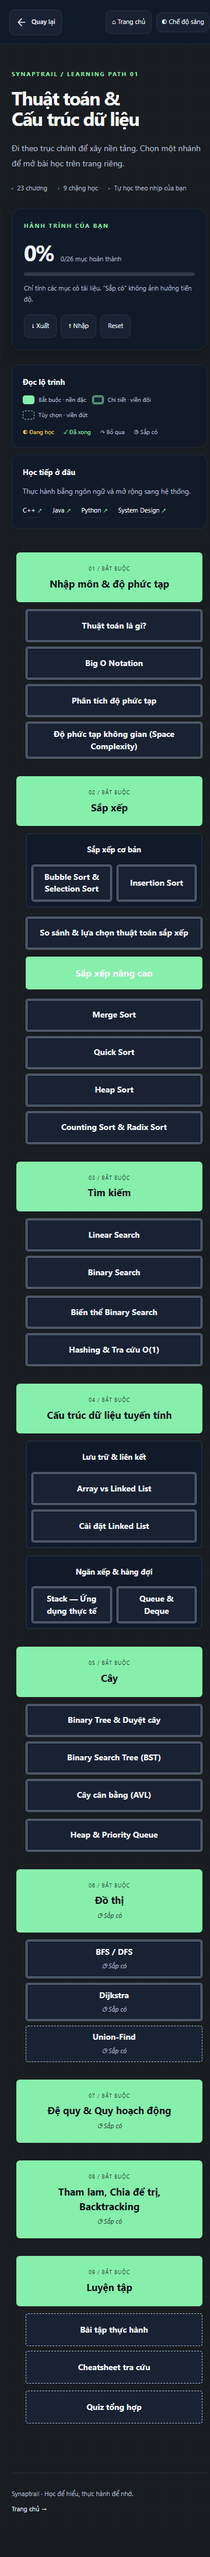
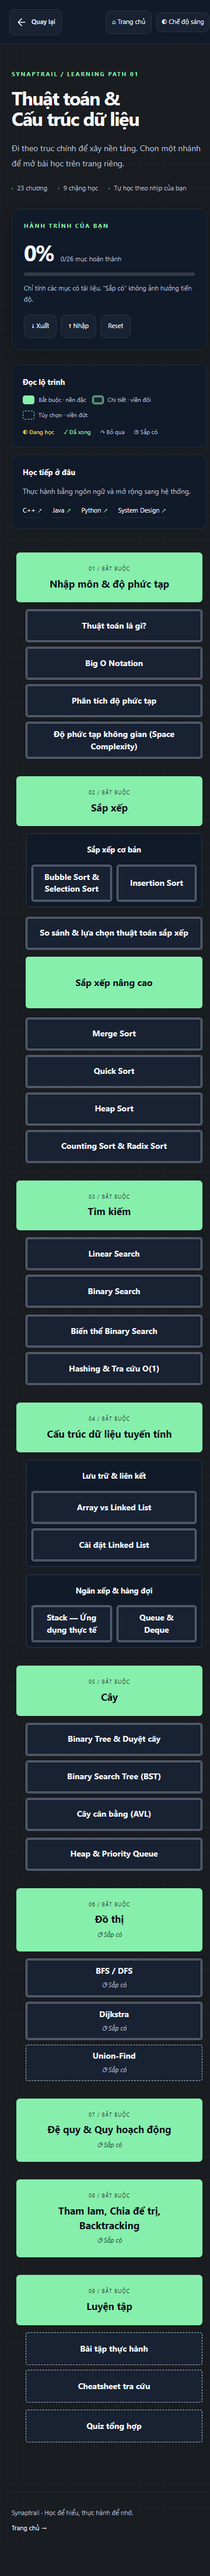
Oct 15, 2026, 1:29 PM

diff --git a/assets/roadmap.js b/assets/roadmap.js
@@ -50,7 +50,7 @@
     function drawSoon(){clearTimeout(timer);timer=setTimeout(draw,80);}
     function draw(){
       const svg=$('rm-connections');svg.replaceChildren();const list=small.matches||reduced.matches;map.classList.toggle('rm-list-mode',list);if(list)return;
-      const bounds=svg.getBoundingClientRect();svg.setAttribute('viewBox',`0 0 ${bounds.width} ${bounds.height}`);
+      const bounds=svg.getBoundingClientRect();svg.setAttribute('preserveAspectRatio','none');svg.setAttribute('viewBox',`0 0 ${bounds.width} ${bounds.height}`);
       const rect=el=>{const r=el.getBoundingClientRect();return{x:r.left-bounds.left,y:r.top-bounds.top,w:r.width,h:r.height};};
       const box=id=>rect(buttons.get(id));
       const path=(d,cls)=>{const p=document.createElementNS('http://www.w3.org/2000/svg','path');p.setAttribute('d',d);p.setAttribute('class',cls);svg.append(p);};
@@ -64,7 +64,7 @@
         });
       });
     }
-    if(globalThis.ResizeObserver)new ResizeObserver(drawSoon).observe(map);addEventListener('resize',drawSoon);small.addEventListener('change',drawSoon);reduced.addEventListener('change',drawSoon);
+    if(globalThis.ResizeObserver)new ResizeObserver(drawSoon).observe(map);addEventListener('resize',drawSoon);globalThis.visualViewport?.addEventListener('resize',drawSoon);small.addEventListener('change',drawSoon);reduced.addEventListener('change',drawSoon);
     function focusHash(){const b=buttons.get(location.hash.slice(1));if(b){b.focus({preventScroll:true});b.scrollIntoView({block:'center',behavior:'instant'});}}
     addEventListener('hashchange',focusHash);themeLabel();render();drawSoon();focusHash();
   },{once:true});

diff --git a/assets/roadmap.css b/assets/roadmap.css
@@ -145,7 +145,9 @@ html[data-theme=light] .rm-connections .rm-branch-line{opacity:.85}
 .rm-branch-tiles{grid-template-columns:repeat(2,minmax(0,1fr))}
 .algorithm-roadmap .rm-branch-heading{grid-column:1/-1;text-align:center;font-size:13px;font-weight:650;line-height:1.5;padding:var(--space-1);margin:0;color:var(--content-primary)!important;-webkit-text-fill-color:currentColor!important}
 .algorithm-roadmap .rm-branch-hub{background:var(--rm-accent);color:var(--surface-page)!important;-webkit-text-fill-color:currentColor!important;border:2px solid var(--rm-accent);border-radius:5px;font-size:16px;min-height:var(--rm-node-height);display:flex;align-items:center;justify-content:center;margin-bottom:var(--space-1)}
+html[data-theme] body.algorithm-roadmap .rm-branch-hub{color:var(--surface-page)!important;-webkit-text-fill-color:var(--surface-page)!important}
 .rm-stage-has-hub>.rm-node{align-self:start!important}
+.algorithm-roadmap .rm-stage-has-hub>.rm-node,.algorithm-roadmap .rm-stage-has-hub .rm-branch-hub{min-height:calc(var(--space-4)*2 + var(--space-3))}
 .algorithm-roadmap .rm-branch-group .rm-node{min-height:var(--rm-node-height);padding:var(--space-1) var(--space-2)!important;border-radius:4px}
 .rm-branch-tiles .rm-node-title{font-size:14px}
 .rm-connections .rm-hub-line{stroke:var(--rm-accent);stroke-width:3}

diff --git a/reports/algorithm-roadmap/README.md b/reports/algorithm-roadmap/README.md
@@ -1,6 +1,16 @@
 # Thuật toán: sơ đồ → trang bài học → trang quiz riêng
 
-Mở [lộ trình](../../roadmap/thuat-toan.html). Trục chính ở giữa, các nhánh nằm hai bên cùng cao độ với chặng tương ứng; đường trục liền và đường nhánh Bezier chấm được tính từ vị trí thật. Bố cục tham khảo ý tưởng trong ảnh; màu, nội dung và dữ liệu dùng Synaptrail.
+Mở [lộ trình](../../roadmap/thuat-toan.html). Trục chính ở giữa; các chặng dùng bố cục khác nhau theo ảnh: nhập môn có bốn nhánh bên phải, sắp xếp có cụm ô nhỏ bên trái và nhánh “Sắp xếp nâng cao” tách tiếp bên phải, cấu trúc tuyến tính có các nhóm ô riêng. Đường trục và nhánh lớn dùng nét liền, đường tới từng bài dùng Bezier chấm. Không còn chia mọi chặng thành hai cột đối xứng giống nhau. Bố cục lấy từ `layout` trong dữ liệu; không dùng tọa độ viết tay.
+
+Ảnh tập trung vào cấu trúc mới:
+
+| Chiều rộng | Tối | Sáng |
+| --- | --- | --- |
+| 375px | [Sơ đồ](dark-375-diagram.png) | [Sơ đồ](light-375-diagram.png) |
+| 768px | [Sơ đồ](dark-768-diagram.png) | [Sơ đồ](light-768-diagram.png) |
+| 1440px | [Sơ đồ](dark-1440-diagram.png) | [Sơ đồ](light-1440-diagram.png) |
+
+Lần chỉnh cấu trúc thay đổi bốn file nguồn: `assets/roadmaps/thuat-toan.js`, `assets/roadmap.js`, `assets/roadmap.css`, `scripts/check-algorithm-roadmap.cjs`; cùng báo cáo này, `checks.json`, `check-ui.json` và ảnh kiểm tra trong thư mục. Không sửa trang bài học hoặc quiz. Đã xem sáu ảnh cấu trúc ở cả hai theme; sửa màu chữ ô nhóm để tăng tương phản và căn lại đường trục sau thay kích thước. Kiểm tra tự động đo sai lệch điểm nối dưới 2px và xác nhận Tab vẫn theo thứ tự học dù các nút nằm trong cụm khác nhau. Chưa kiểm tra trên điện thoại vật lý; bước tiếp theo là xem bố cục này trước khi nhân rộng sang khóa khác.
 
 Bấm “Thuật toán là gì?” hoặc “Big O Notation” sẽ chuyển tài liệu sang [chapter01.html](../../thuat-toan/chapter01.html) hoặc [chapter02.html](../../thuat-toan/chapter02.html). Đây là các trang HTML riêng, không phải mở panel, đọc nội tuyến hoặc chuyển hướng về sơ đồ. Bài đọc giữ đủ nội dung, bảng, code và tổng kết; không có sidebar chương hay câu hỏi quiz.
 
